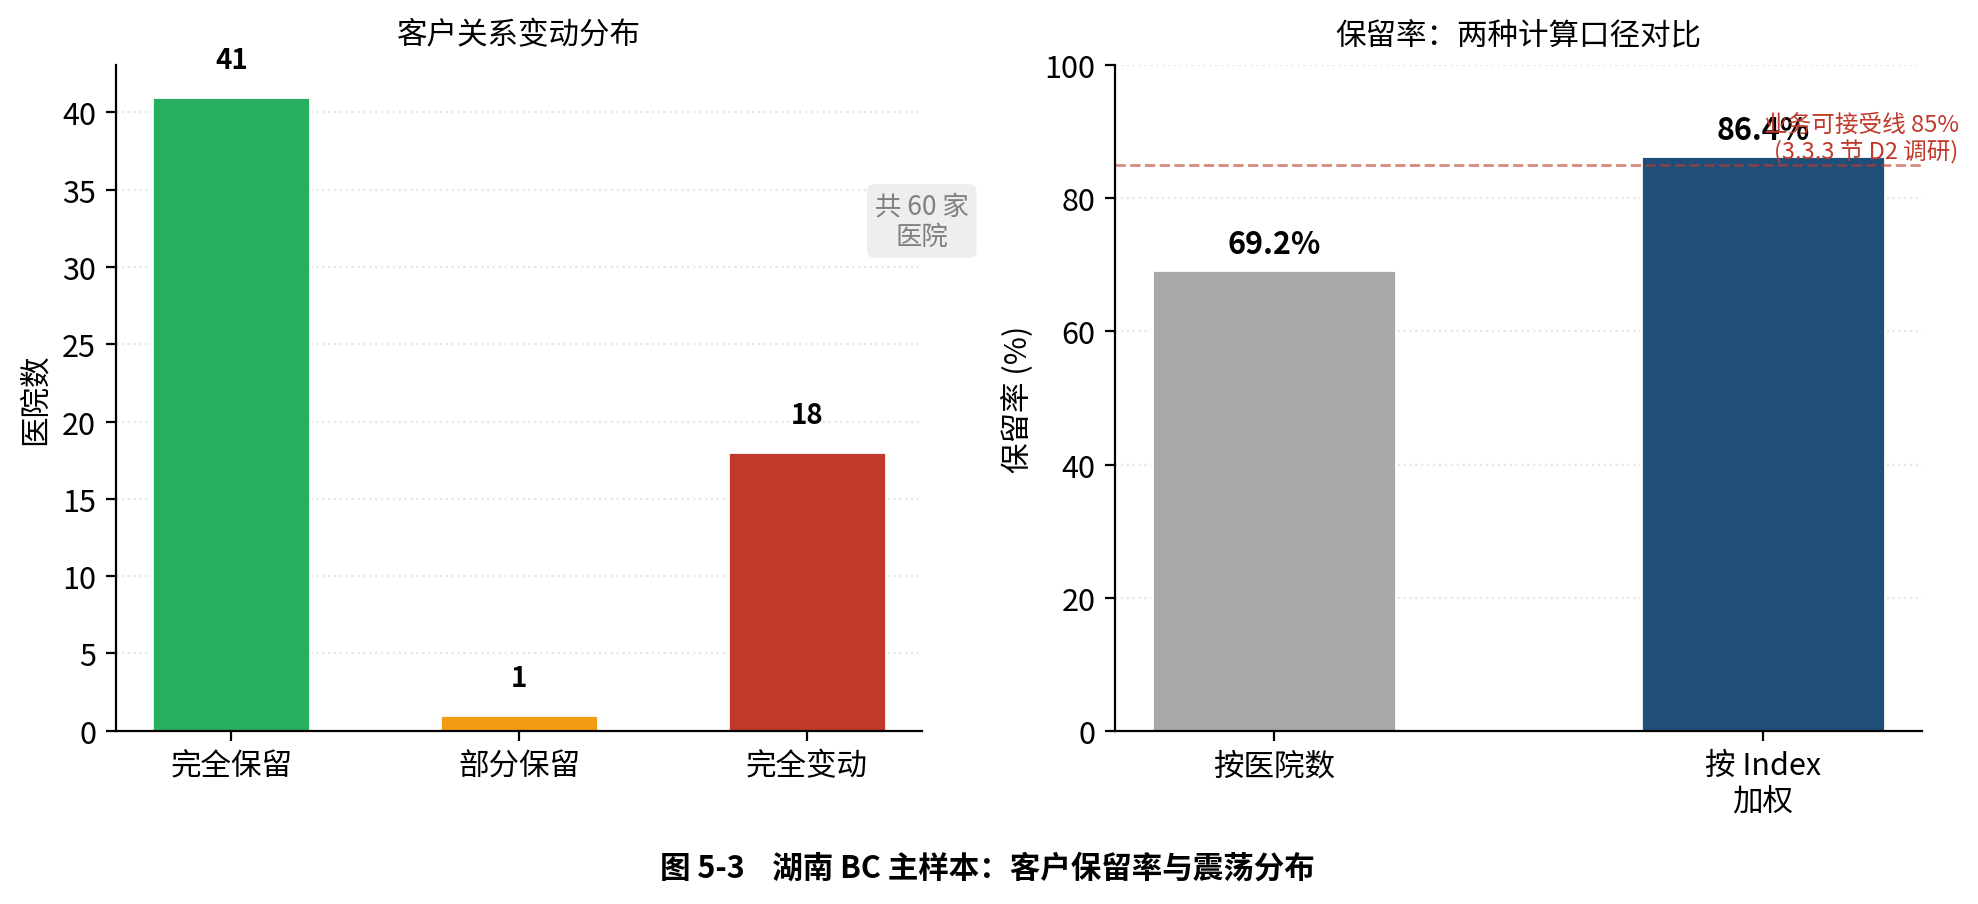
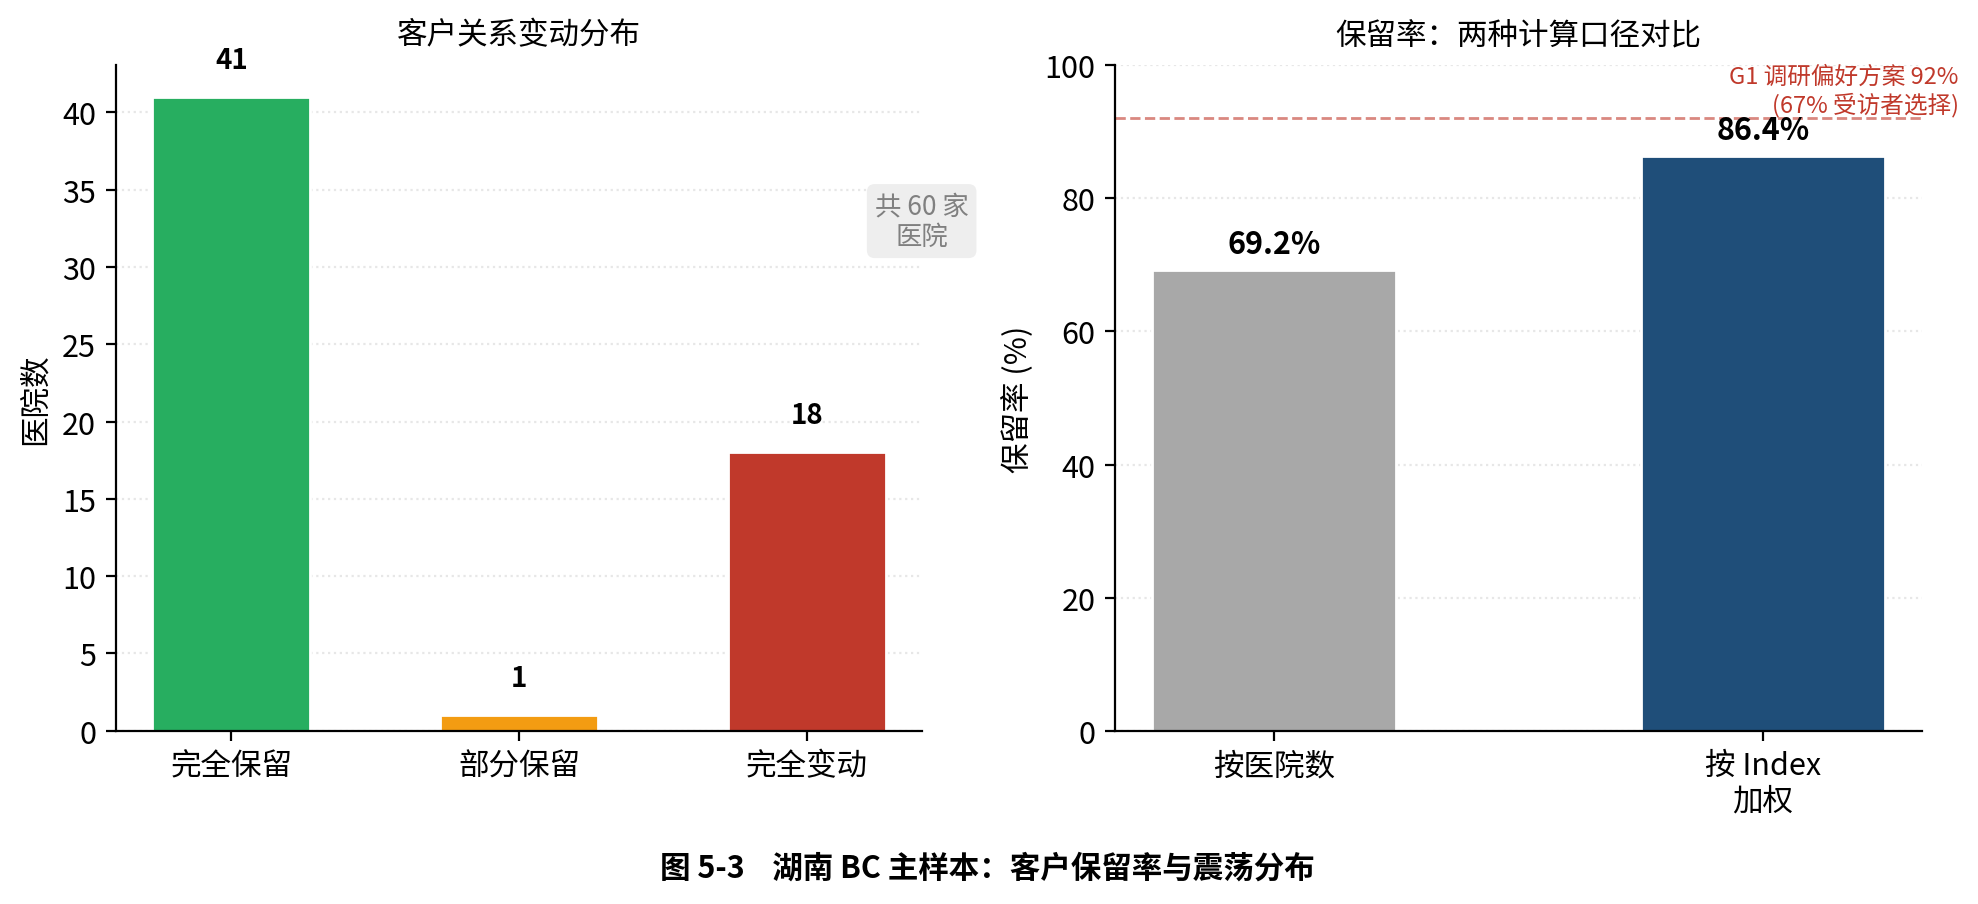
图 1-3 与图 5-3 同步跨章节一致性修复
- fig1-3.dot 第五章节点：三场景压力测试 → 三地理形态验证（与正文 1.3.3、5.3 节一致）
- fig5.py fig 5-3：去掉虚构的"≥85% 业务可接受线 (D2)"参考线，改为 G1 调研中受访者偏好方案的实际数据点 92% 保留率（67% 受访者选择），与 5.2.3、5.5 节正文修正同步

Changed region(s): [[0.8635, 0.0619, 0.9869, 0.1858]]

diff --git a/docs/figures/fig5.py b/docs/figures/fig5.py
@@ -241,9 +241,9 @@ def fig_5_3():
     bars = ax.bar(metrics_cats, metric_vals, color=[LIGHT, BLUE], edgecolor='white', linewidth=1, width=0.5)
     for bar, v in zip(bars, metric_vals):
         ax.text(bar.get_x() + bar.get_width()/2, v + 1.5, f'{v}%', ha='center', va='bottom', fontsize=11, fontweight='bold')
-    # 业务可接受线 85%
-    ax.axhline(85, color=RED, linestyle='--', linewidth=1, alpha=0.6)
-    ax.text(1.4, 86, '业务可接受线 85%\n(3.3.3 节 D2 调研)', fontsize=8.5, color=RED, ha='right')
+    # G1 调研中受访者偏好的"高保留率方案"对应 92% 保留率（67% 受访者选择）
+    ax.axhline(92, color=RED, linestyle='--', linewidth=1, alpha=0.6)
+    ax.text(1.4, 93, 'G1 调研偏好方案 92%\n(67% 受访者选择)', fontsize=8.5, color=RED, ha='right')
     ax.set_ylabel('保留率 (%)', fontsize=11)
     ax.set_ylim(0, 100)
     ax.set_title('保留率：两种计算口径对比', fontsize=11, pad=8)